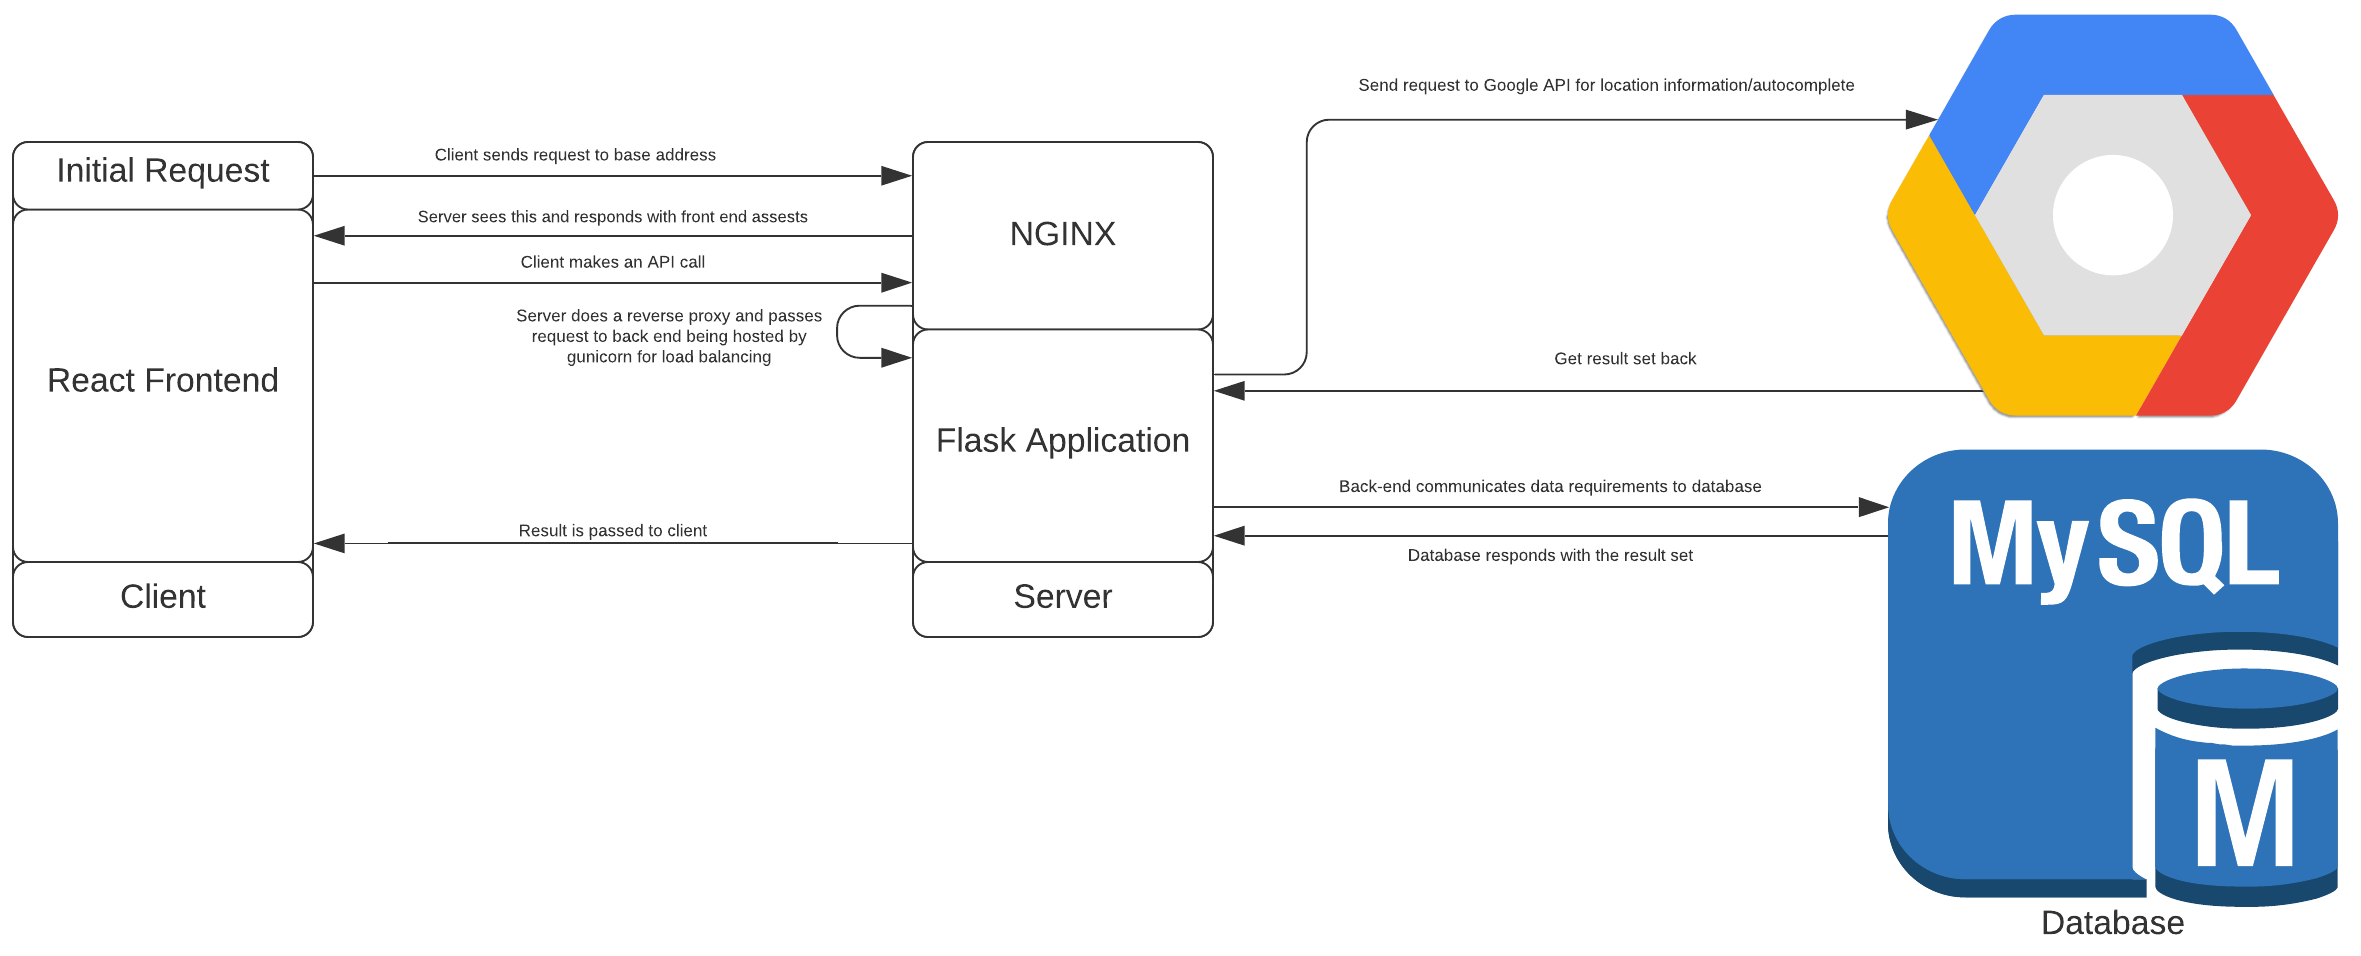
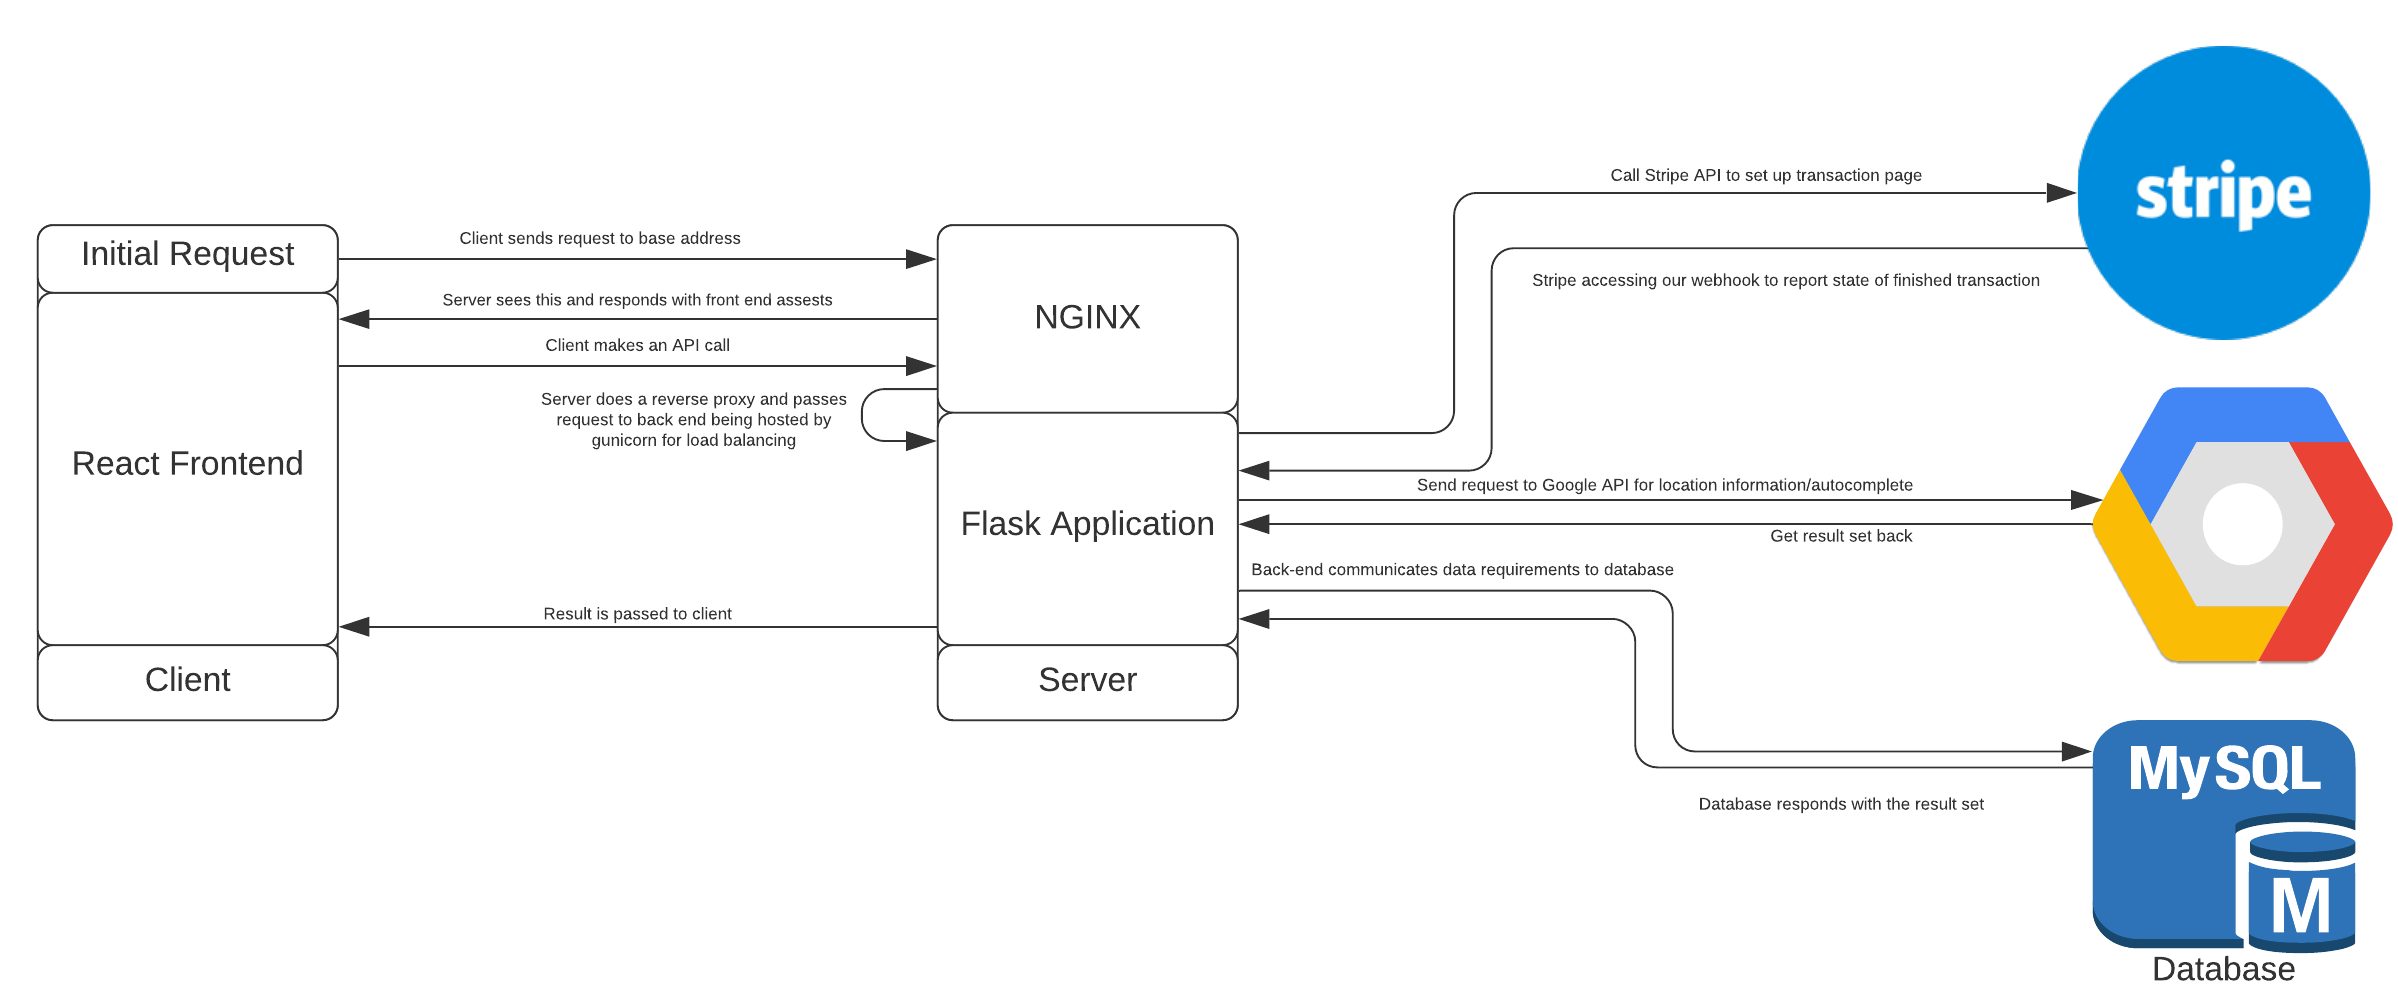
#190 Update diagrams, menu behaviour and documentation.

diff --git a/Backend/Blueprints/Menu/menu.py b/Backend/Blueprints/Menu/menu.py
@@ -23,19 +23,23 @@ def restaurant_menu(restaurant):
     try:
         parameters = request.json
 
-        menu = session.execute('select r.address, mi.name, mi.price, mi.description '
+        menu = session.execute('select r.address, mi.name, mi.price, mi.description, mi.id, r.id, r.comment '
                                'from restaurant as r '
                                '    left join menu_item mi on r.id = mi.restaurant and mi.active = 1 '
                                'where r.active = 1 '
                                'and r.id = :id '
                                'order by mi.name', {'id': restaurant}).fetchall()
         if len(menu) > 0:
-            result += '"addr": "' + str(menu[0][0]) + '", "menu": ['
+            result += '"addr": "' + str(menu[0][0]) + '", ' \
+                      '"id": "' + str(menu[0][5]) + '", ' \
+                      '"descr": "' + str(menu[0][6]) + '", '\
+                      '"menu": ['
 
             for item in menu:
                 result += '{"name": "' + str(item[1]) + '", ' \
                           '"price": "' + str(item[2]) + '", ' \
-                          '"description": "' + str(item[3]) + '"},'
+                          '"description": "' + str(item[3]) + '" ' \
+                          '"id": "' + str(item[4]) + '"},'
 
             if result.endswith(','):
                 result = result[:-1]

diff --git a/documentation/API/endpoints.md b/documentation/API/endpoints.md
@@ -83,7 +83,7 @@ Endpoint retrieves the menu of the url encoded id of restaurant. expects one par
 @cookies:     A dictionary of cookies from client\
 @returns JSON of form
 ```
-{"addr": "45 D'arcy Dr, Winnipeg MB", "menu": [{"name": "Sweet Tacos", "price": 3.99, "description": "Delicious Tacos you'll regret the next morning!"}], "jwt_token": "324wtsg"}
+{"addr": "45 D'arcy Dr, Winnipeg MB", "descr": "Your favorite place to dine!", "id": 9, "menu": [{"id": 44, name": "Sweet Tacos", "price": 3.99, "description": "Delicious Tacos you'll regret the next morning!"}], "jwt_token": "324wtsg"}
 ```
 Note that cookies can be empty. If empty jwt_token will be an empty string
 
@@ -282,3 +282,21 @@ Returns jwt_token to client\
 ```
 {"jwt_token": "2354gsdrgdzrg"}
 ```
+
+## /Api/Restaurant/Payment [POST]
+Endpoint used to send basket info to the server and create a checkout session and requires one parameter\
+@cookies    : Dictionary of client cookies\
+@basket     : [{"id": 33, "qty": 5}] Stores food id and quantity\
+@addr       : String of users address to deliver to\
+@restaurant : ID of restaurant this transaction is occuring with\
+@returns stripe session json.
+
+
+## /Api/Restaurant/Payment/Data [POST]
+Endpoint used to retrieve the meta data of a certain checkout session\
+@id        : The session id of the stripe transaction\
+@cookies   : Dictionary of client side cookies\
+@return the meta data of the whole session
+
+
+
